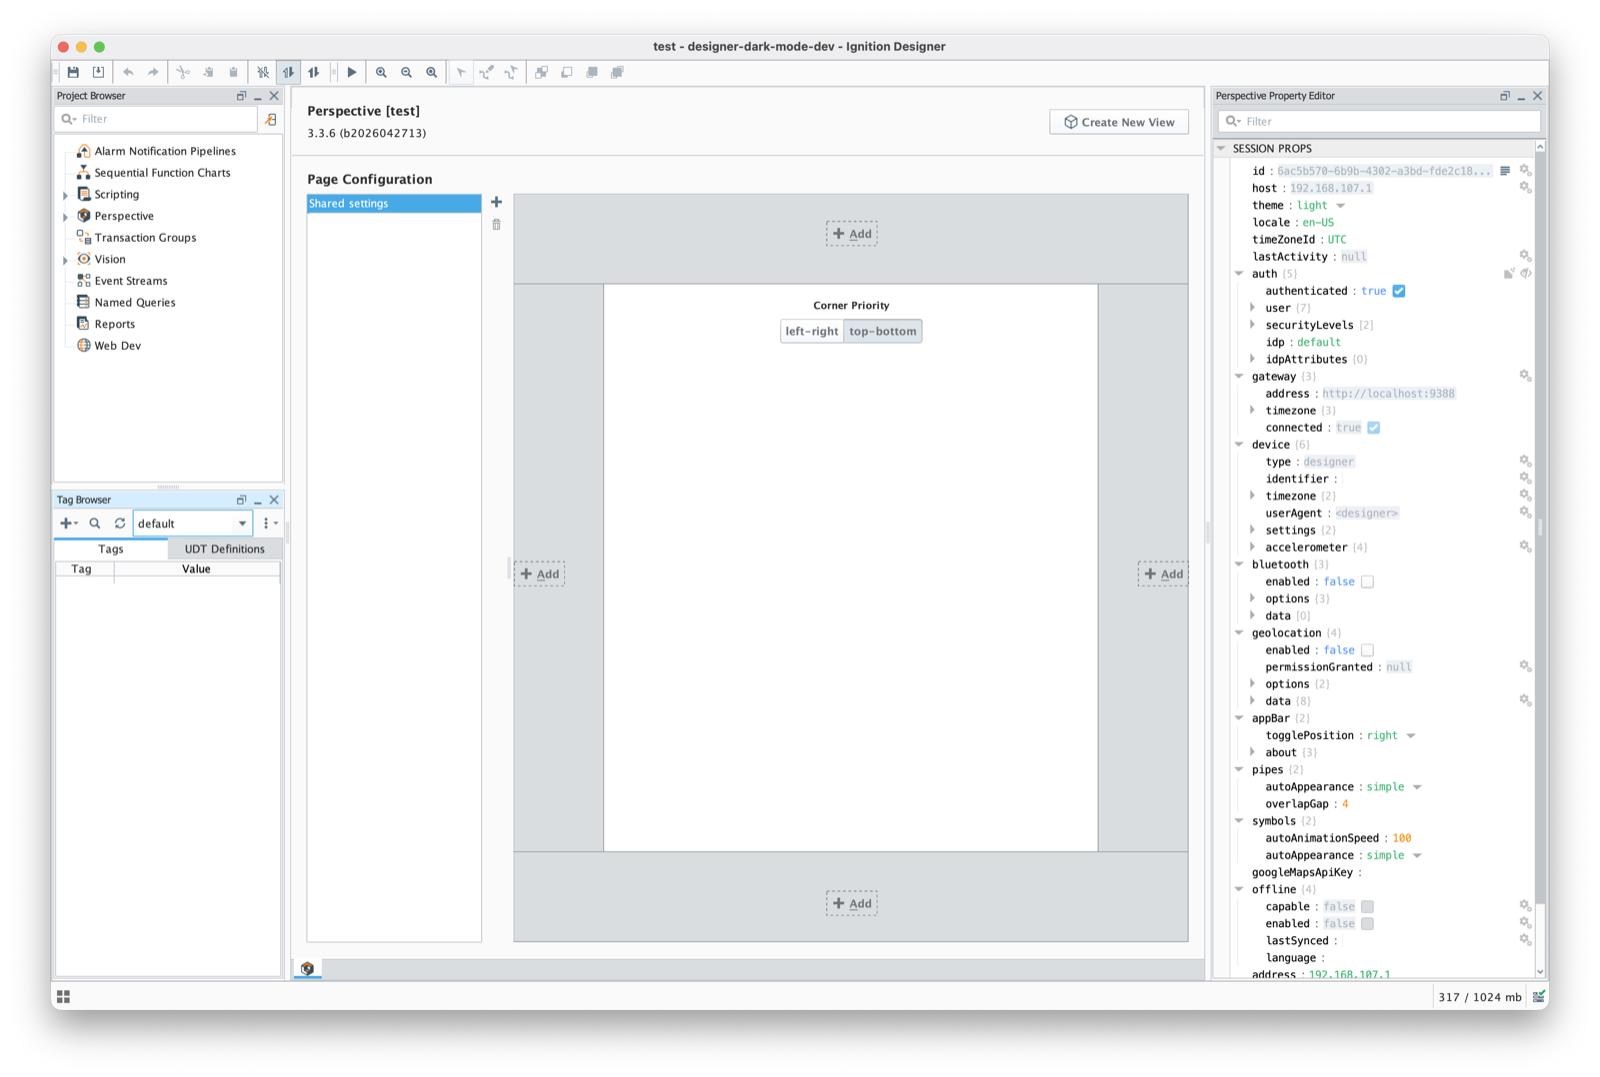
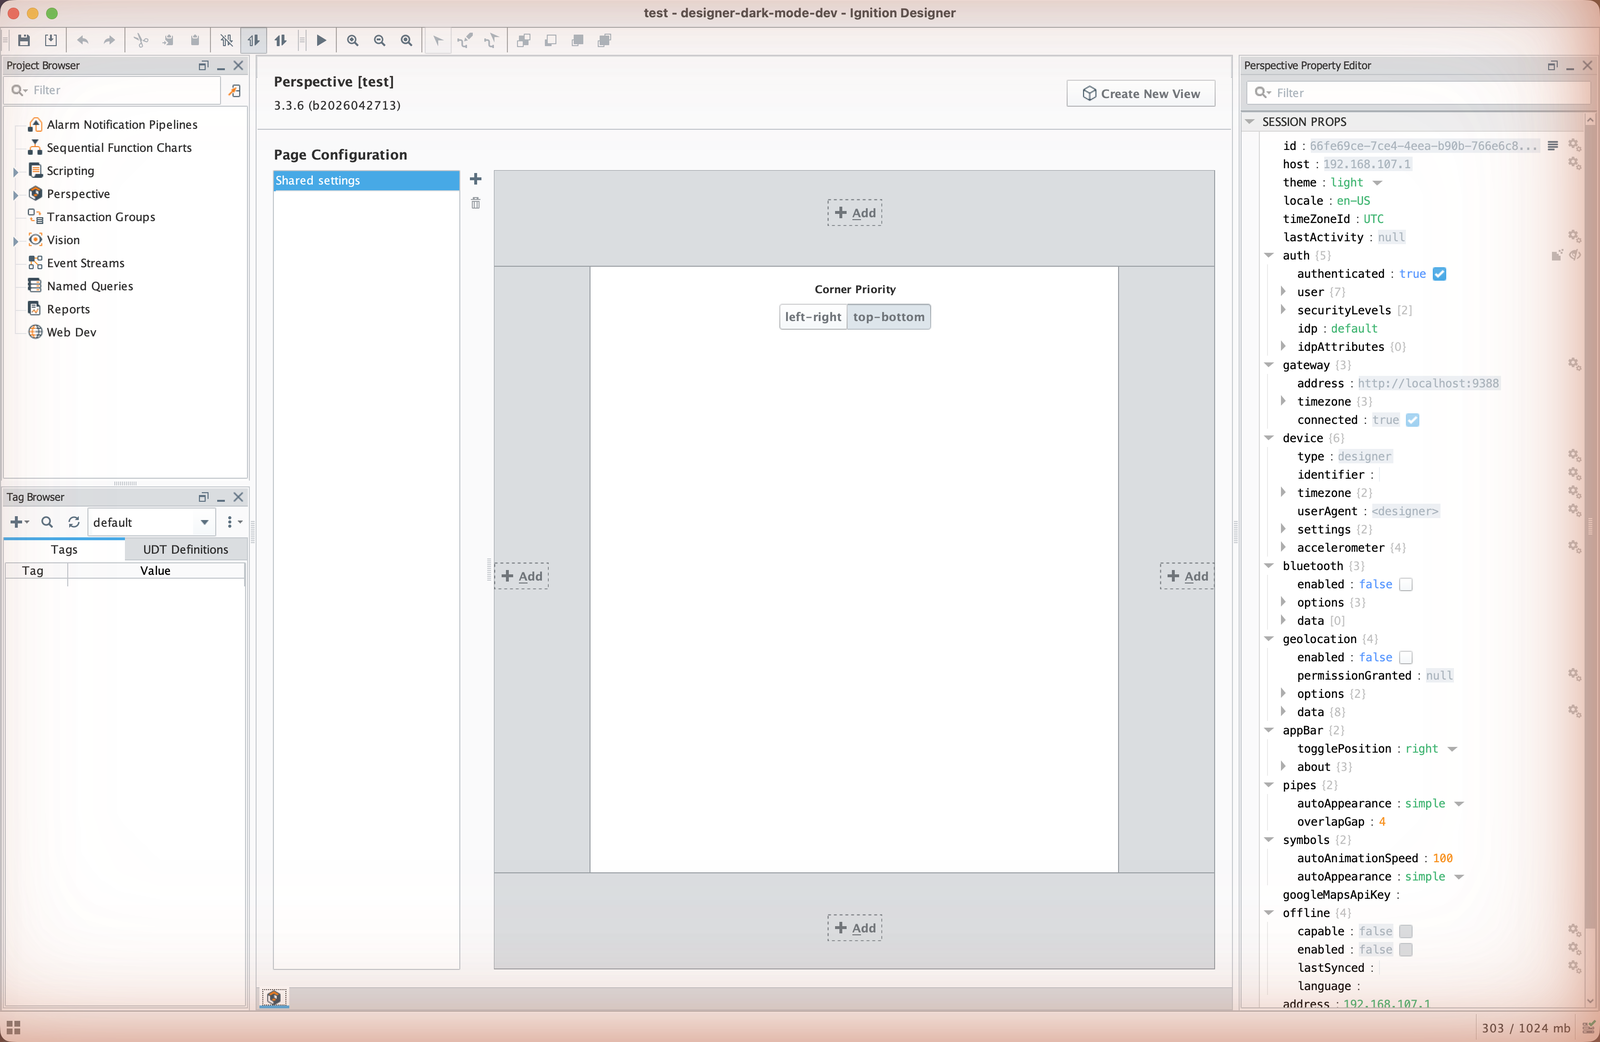
docs: retake the screenshots against the current build
The old pair predated seven commits of theming work: they still showed
the near-white selected toolbar buttons (#9) and two of the three pale
bands (#20), so the README was advertising defects that no longer exist.

Both captures are the same frame at the same size, cropped to the
Designer window so no desktop, widgets or personal content are included,
and downscaled 3330 -> 1600px (~300 KB each).

The light shot is taken from a Designer launched fresh in light mode
rather than by toggling dark off. That is what a user sees before
installing the module, and toggling back currently leaves amber
highlights across the Perspective property editor (#23) which would
misrepresent the stock Designer. docs/images/README.md now says so, so
the next person does not reintroduce it.

Known-caveat note updated: it referenced #1, which was closed as not
applicable to 8.3. The current pair's caveat is #21, the faint band under
the Tag Browser header.

Changed region(s): [[0.0, 0.0, 1.0, 1.0]]

diff --git a/docs/images/README.md b/docs/images/README.md
@@ -47,8 +47,19 @@ not add dates or version numbers.
 
 ## Known caveat in the current pair
 
-The dark capture shows [#1](https://github.com/Mustry-Solutions/ignition-designer-dark-mode-module/issues/1):
-the toolbar icons keep their dark "enabled" variant, which against a dark
-toolbar reads as disabled. Compare the top toolbar between the two files — it
-is the most visible difference after the background. When #1 is fixed, retake
-both.
+The dark capture still shows [#21](https://github.com/Mustry-Solutions/ignition-designer-dark-mode-module/issues/21):
+a faint pale band under the Tag Browser's `Tag | Value` header. It is cosmetic,
+confined to that one panel, and documented in the README's Known limitations.
+
+## Why the light shot comes from a fresh launch
+
+Capture the light image from a Designer that has **never been toggled**, not by
+switching dark mode off. Two reasons: it is what a user actually sees before
+installing the module, and toggling back currently leaves an artifact in the
+Perspective property editor
+([#23](https://github.com/Mustry-Solutions/ignition-designer-dark-mode-module/issues/23))
+that would misrepresent the stock Designer.
+
+Set the preference to light, relaunch, and capture. Then toggle dark in a
+separate session for the dark shot — or relaunch again, since dark applies at
+startup from the preference.
